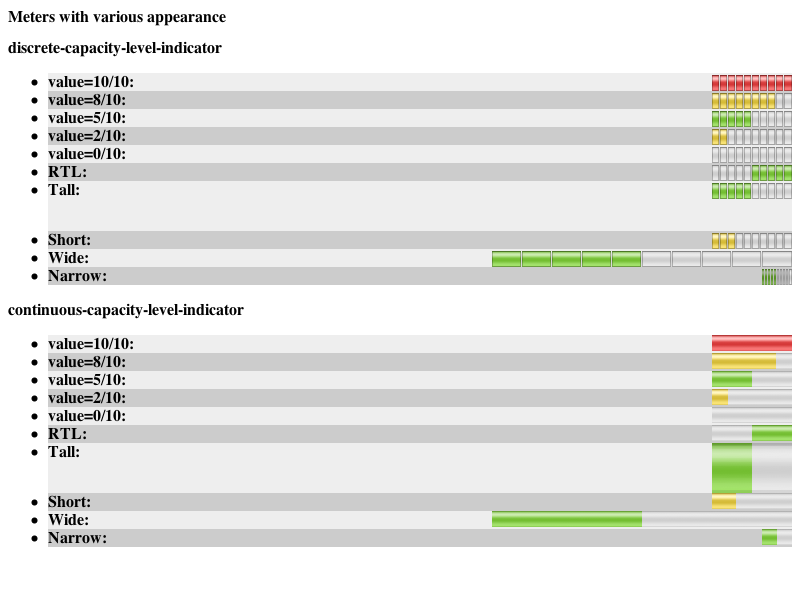
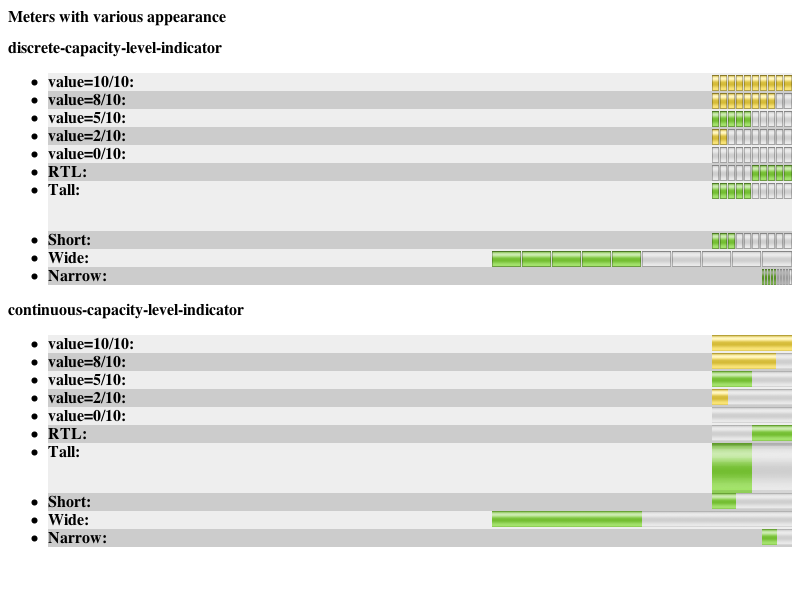
2010-10-28  MORITA Hajime  <morrita@google.com>
Reviewed by Kent Tamura.

        <meter min=0 max=100 value=100> should be optimum.
        https://bugs.webkit.org/show_bug.cgi?id=48613

        * fast/dom/HTMLMeterElement/meter-boundary-values.html: Added.
        * platform/mac/fast/dom/HTMLMeterElement/meter-appearances-capacity-expected.checksum:
        * platform/mac/fast/dom/HTMLMeterElement/meter-appearances-capacity-expected.png:
        * platform/mac/fast/dom/HTMLMeterElement/meter-boundary-values-expected.checksum: Added.
        * platform/mac/fast/dom/HTMLMeterElement/meter-boundary-values-expected.png: Added.
        * platform/mac/fast/dom/HTMLMeterElement/meter-boundary-values-expected.txt: Added.
        * platform/mac/fast/dom/HTMLMeterElement/meter-optimums-expected.checksum:
        * platform/mac/fast/dom/HTMLMeterElement/meter-optimums-expected.png:
2010-10-28  MORITA Hajime  <morrita@google.com>

        Reviewed by Kent Tamura.

        <meter min=0 max=100 value=100> should be optimum.
        https://bugs.webkit.org/show_bug.cgi?id=48613

        Changed to make the condition inclusive for better case consistently.
        - Values on the border between optimum and subsequntial go optimum.
        - Values on the border between suboptimal and even-less-than-good go suboptimal.

        Test: fast/dom/HTMLMeterElement/meter-boundary-values.html

        * html/HTMLMeterElement.cpp:
        (WebCore::HTMLMeterElement::gaugeRegion):
[…]

diff --git a/fast/dom/HTMLMeterElement/meter-boundary-values.html b/fast/dom/HTMLMeterElement/meter-boundary-values.html
@@ -1,0 +1,26 @@
+<html>
+<head>
+</head>
+<body>
+  <h1>Meters with border values</h1>
+  <ul>
+    <li>min,low,optimal,high,max</li>
+    <li><b>9</b>|10,20,30,40,50: <meter min="10" low="20" optimum="30" high="40" max="50" value="9" ></meter></li>
+    <li><b>10</b>,20,30,40,50: <meter min="10" low="20" optimum="30" high="40" max="50" value="10" ></meter></li>
+    <li>10,<b>20</b>,30,40,50: <meter min="10" low="20" optimum="30" high="40" max="50" value="20" ></meter>(should be green)</li>
+    <li>10,20,<b>30</b>,40,50: <meter min="10" low="20" optimum="30" high="40" max="50" value="30" ></meter>(should be green)</li>
+    <li>10,20,30,<b>40</b>,50: <meter min="10" low="20" optimum="30" high="40" max="50" value="40" ></meter>(should be green)</li>
+    <li>10,20,30,40,<b>50</b>: <meter min="10" low="20" optimum="30" high="40" max="50" value="50" ></meter>(should be yellow)</li>
+    <li>10,20,30,40,50|<b>51</b>: <meter min="10" low="20" optimum="30" high="40" max="50" value="51" ></meter>(should be yellow)</li>
+
+    <li>10,<b>10</b>,30,40,50: <meter min="10" low="10" optimum="30" high="40" max="50" value="10" ></meter></li>
+    <li>10,20,30,<b>40</b>,40: <meter min="10" low="20" optimum="30" high="40" max="40" value="40" ></meter>(should be green)</li>
+
+    <li><b>9</b>|10,10,10,20,30: <meter min="10" low="10" optimum="10" high="20" max="30" value="9" ></meter></li>
+    <li>10,10,<b>10</b>,20,30: <meter min="10" low="10" optimum="10" high="20" max="30" value="10" ></meter></li>
+    <li>10,20,<b>30</b>,30,30: <meter min="10" low="20" optimum="30" high="30" max="30" value="30" ></meter>(should be green)</li>
+    <li>10,20,30,30,30|<b>31</b>: <meter min="10" low="20" optimum="30" high="30" max="30" value="31" ></meter>(should be green)</li>
+    <li>10,20,<b>20</b>,20,30: <meter min="10" low="20" optimum="20" high="20" max="30" value="20" ></meter>(should be green)</li>
+  </ul>
+</body>
+</html>
